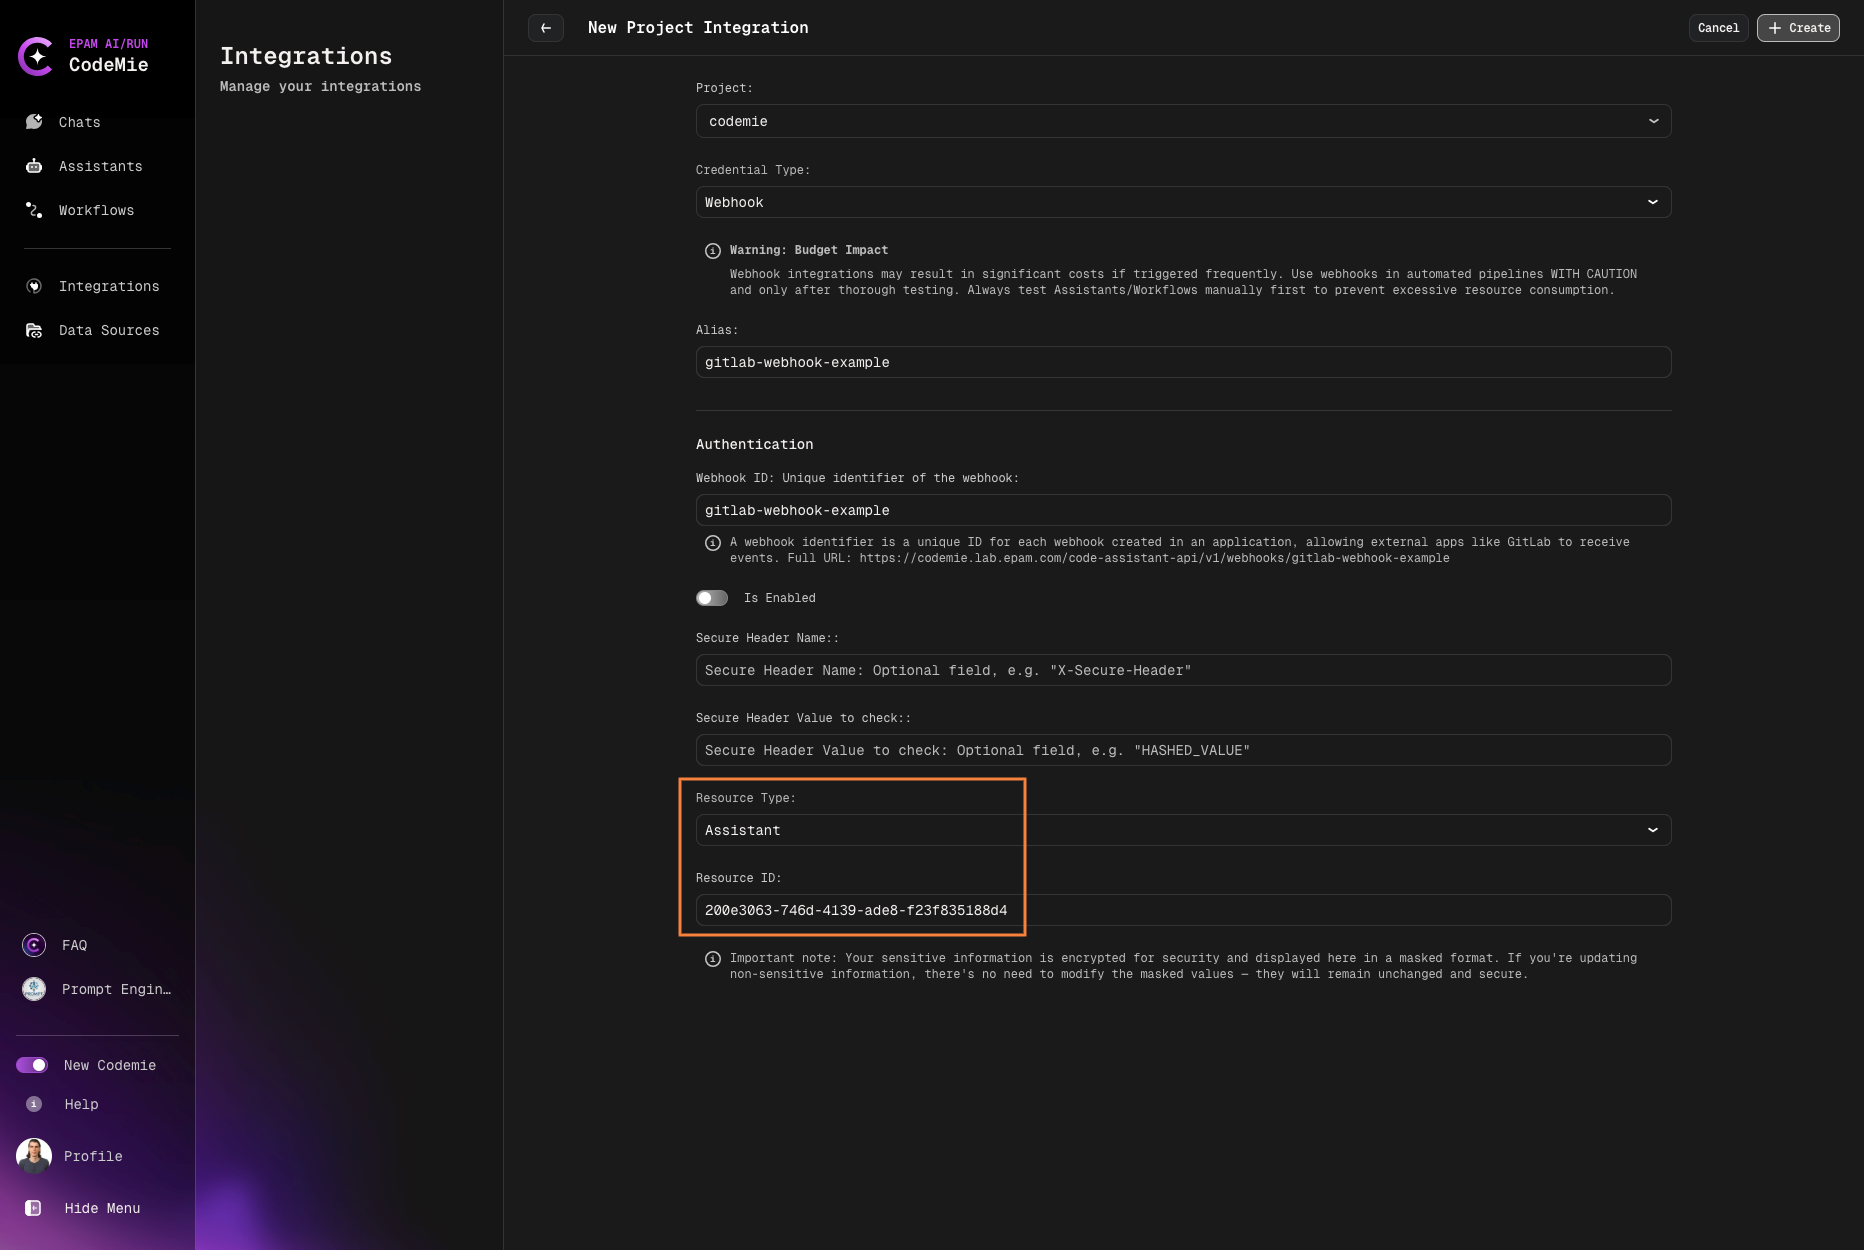
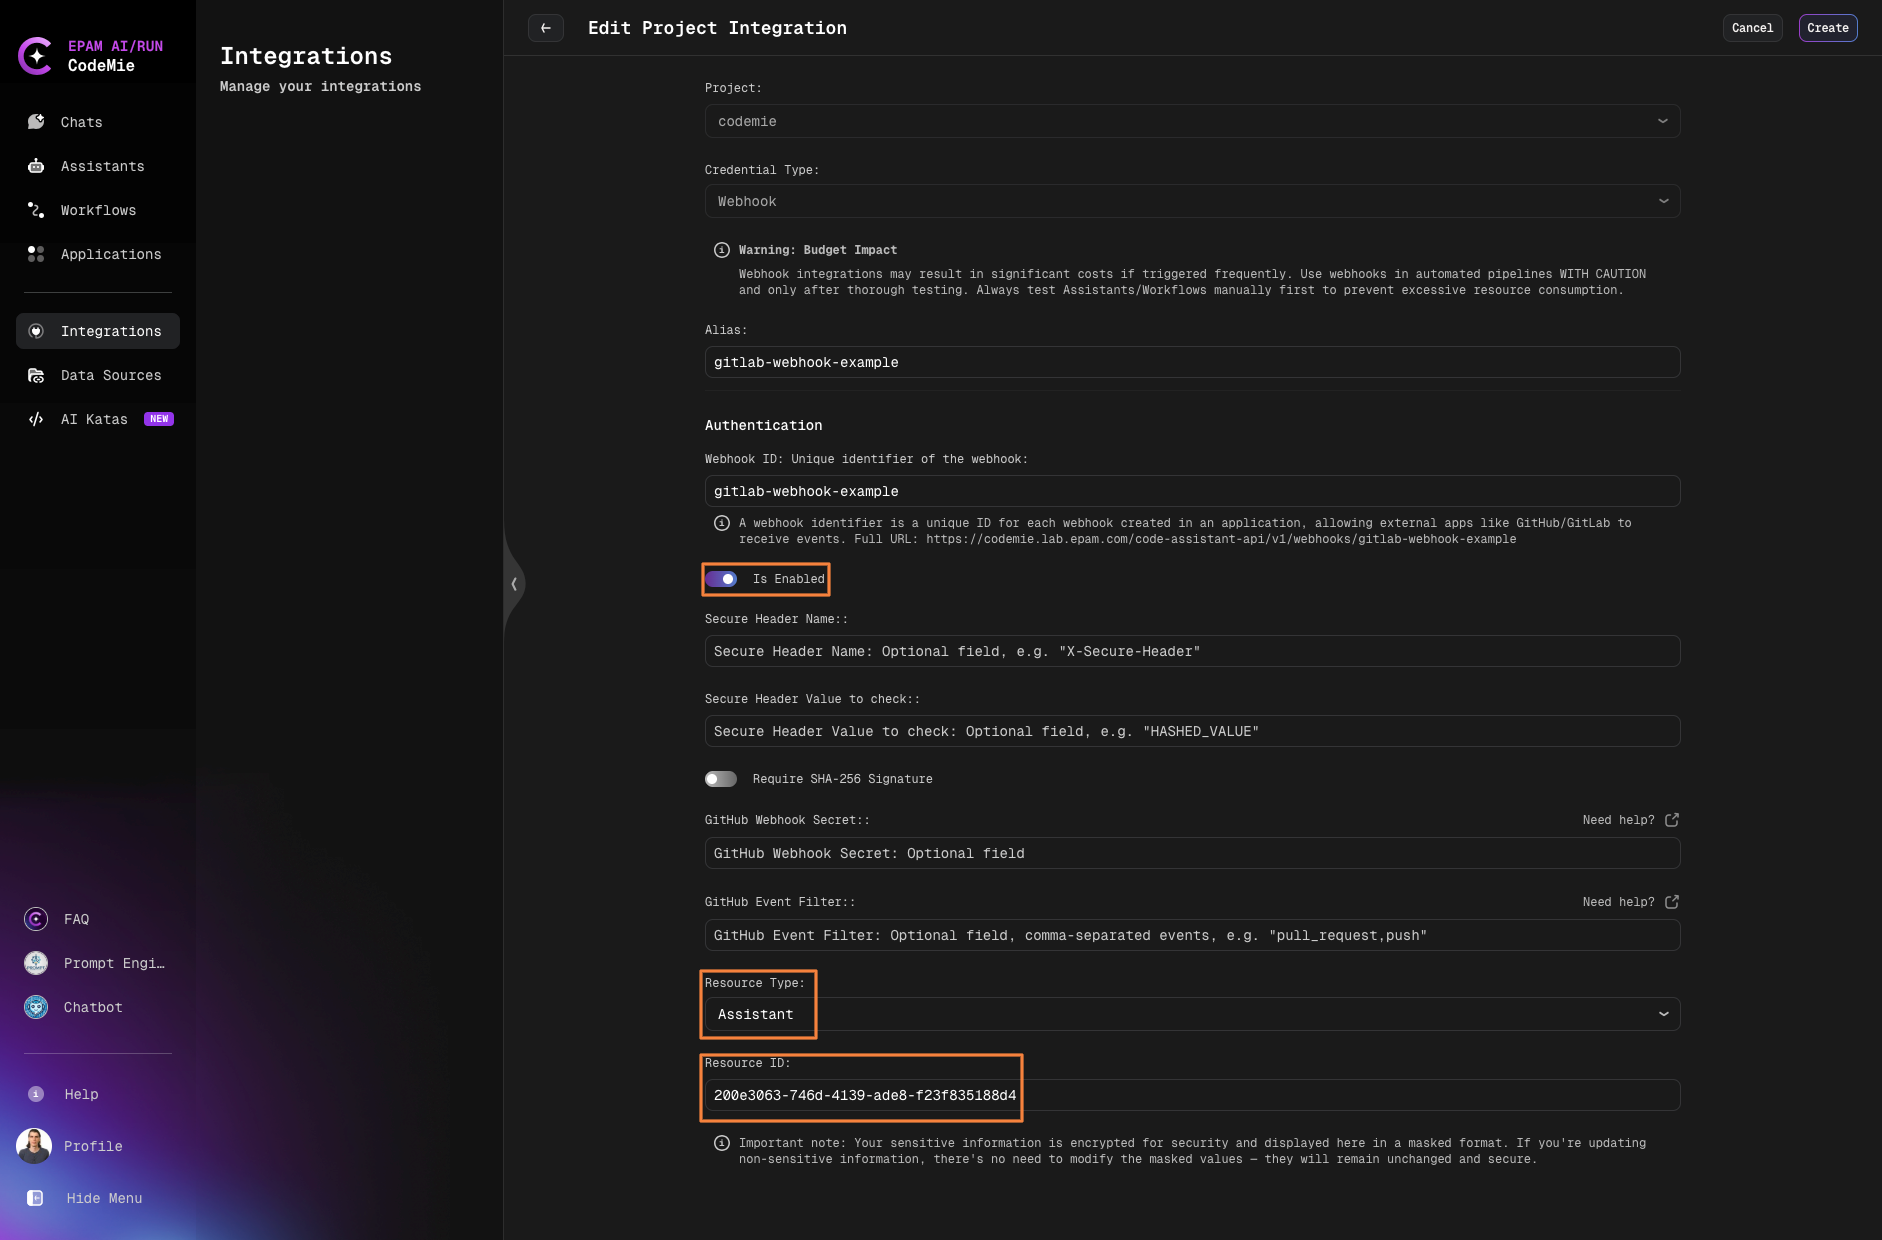
docs: update webhook integration flow

diff --git a/docs/user-guide/tools/webhook.md b/docs/user-guide/tools/webhook.md
@@ -9,7 +9,9 @@ sidebar_position: 10
 
 AI/Run CodeMie assistants and Workflows can be triggered using webhooks. It means that all the tools that support sending webhooks can be integrated with AI/Run CodeMie. Below is a list of some examples where webhooks can be beneficial:
 
-As of version 1.1.0, only users with the Project Admin role can create and manage Webhook integrations. User-level Webhook integrations are no longer supported. If you are not a Project Admin, the "Webhook" option will not appear for you, and any previous user-level Webhook integrations you created will no longer function.
+:::note
+Only users with the Project Admin role can create and manage Webhook integrations. If you are not a Project Admin, the "Webhook" option will not appear for you, and any previous user-level Webhook integrations you created will no longer function.
+:::
 
 1. You need to automatically trigger code review assistant when developers create pull requests.
 2. You need to send some real-time notifications via workflow when issues are created, updated, or resolved in Jira.
@@ -33,28 +35,40 @@ You can also create a Workflow and Datasource as these resource types support we
 
 ## 2. Create Webhook Integration
 
-2.1. Navigate to **Integrations → User/Project** and click **+ Create**.
+2.1. Navigate to **Integrations → Project** and click **+ Create**.
 
-2.2. On the **New User/Project Integration** page, fill in the fields to create a webhook:
+2.2. On the **Edit Project Integration** page, fill in the fields to create a webhook:
 
-- **Project Name**: Specify project name.
-- **Credential Type**: Webhook.
-- **Alias**: Specify the integration name.
-- **Webhook ID**: Specify the Webhook ID to work in. This ID is used in Webhook's full URL.
-- **Access Key ID**: Paste the **Access Key ID** data copied from step 1.4.
-- **If enabled**: Check the toggler. If the option is disabled, the webhook won't be operating.
-- **Secure Header Name (optional)**: This field is used as a means of verifying the webhook's eligibility.
-- **Secure Header Value (optional)**: Enter the Secure Header's value.
-- **Resource type**: Choose who will be triggered when receiving the webhook.
-- **Resource ID**: Enter the ID of an Assistant/Workflow/Datasource data copied from step 2.
+- **Project**: Select the project where the webhook will be created.
+- **Credential Type**: Select **Webhook**.
+- **Alias**: Specify the integration name for easy identification.
 
-![Webhook integration](./images/image64.png)
+### Authentication
+
+- **Webhook ID**: Unique identifier for the webhook. This ID is used in the webhook's full URL and allows external apps like GitHub/GitLab to receive events. Full URL format: `https://codemie.lab.epam.com/code-assistant-api/v1/webhooks/{webhook-id}`
+- **Is Enabled**: Check this toggle to activate the webhook. If disabled, the webhook won't process incoming requests.
+- **Secure Header Name (optional)**: Optional field for custom header-based authentication. Specify a header name (e.g., `X-Secure-Header`) that the webhook will check.
+- **Secure Header Value to check (optional)**: Optional field. Enter the expected value for the secure header specified above.
+- **Require SHA-256 Signature**: Toggle to enable SHA-256 signature verification for incoming webhook requests. When enabled, requests must include a valid signature.
+- **GitHub Webhook Secret (optional)**: Optional field for GitHub webhook signature verification. Enter the secret token configured in your GitHub webhook settings to validate incoming GitHub events.
+- **GitHub Event Filter (optional)**: Optional field. Specify comma-separated GitHub event types to filter (e.g., `pull_request,push`). Only events matching these types will trigger the webhook.
+
+:::warning Important note
+Make sure the **Is Enabled** toggle is turned ON. If disabled, the webhook will not process any incoming requests and will not trigger the associated resource.
+:::
+
+### Resource Configuration
+
+- **Resource Type**: Choose the resource to be triggered when receiving the webhook (Assistant, Workflow, or Datasource).
+- **Resource ID**: Enter the ID of the Assistant/Workflow/Datasource copied from step 1.2.
+
+![Webhook integration form](./images/webhook-integration-form.png)
 
 ## 3. Copy Webhook URL
 
-3.1. Copy the assistant's webhook URL to further paste it in the webhook settings:
+3.1. Copy the webhook URL to further paste it in the webhook settings. The URL is displayed in the Authentication section:
 
-![Webhook URL](./images/image57.png)
+![Webhook URL](./images/webhook-url-copy.png)
 
 ## 4. Configure Webhook in External Tool
 
